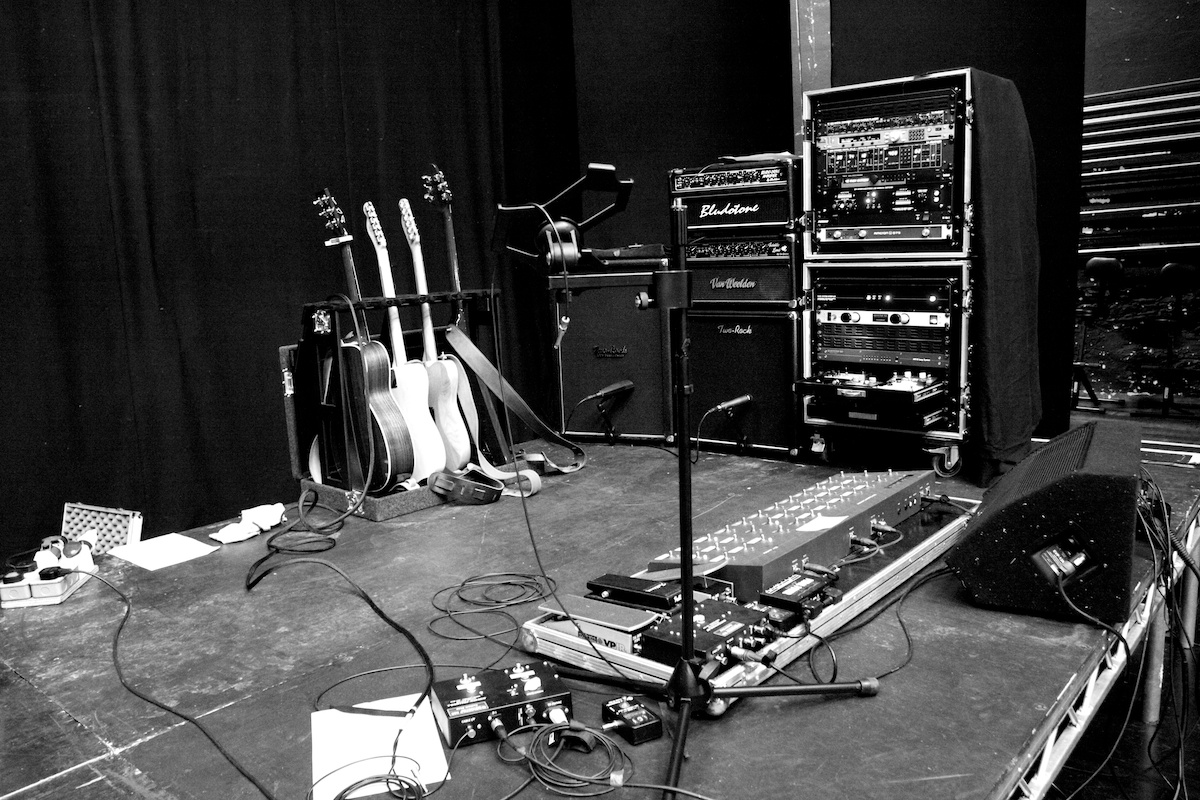
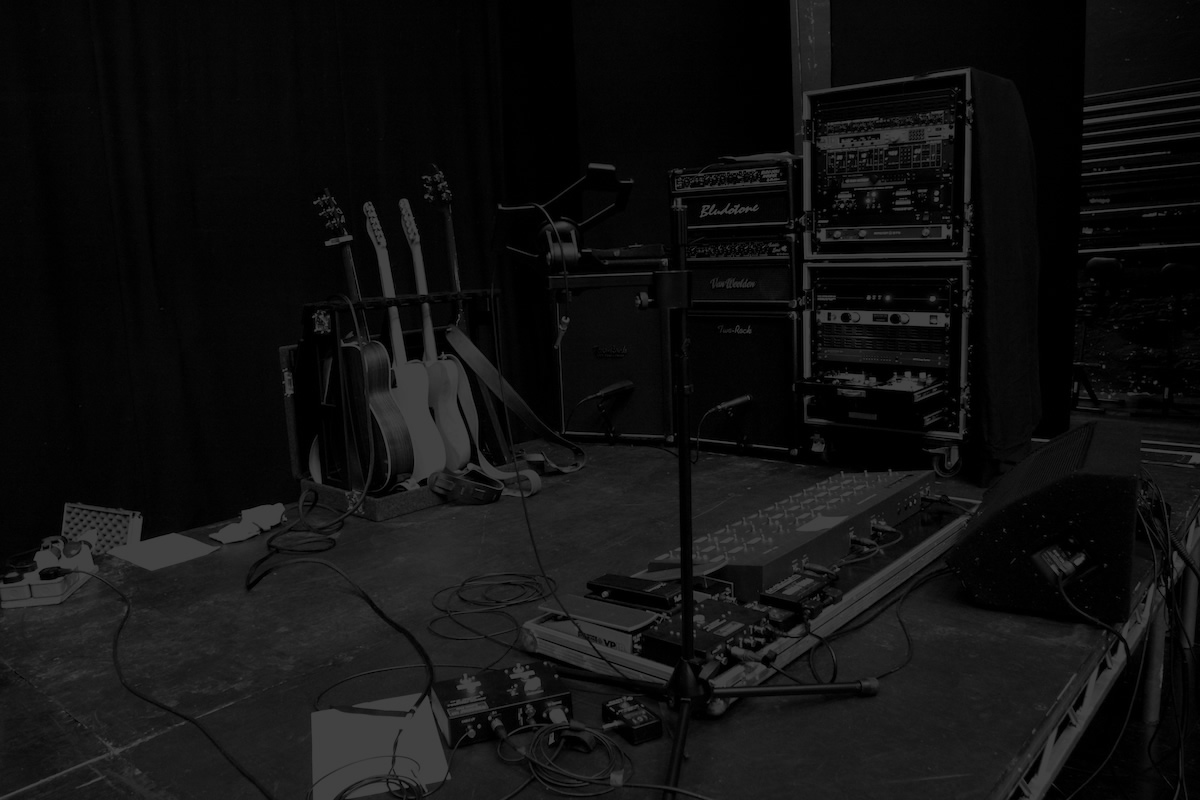
Fixed the 404 page, updated the about page and homepage images

diff --git a/craft/templates/404.html b/craft/templates/404.html
@@ -16,8 +16,20 @@
 {% extends "_layout" %}
 {% set title = "404" %}
 
-{% block content %}
-	<h1>Page not found</h1>
+{% block content_main %}
+    <header class="heading-group heading-group--main">
+        <div class="main-wrapper main-wrapper--full">
+            <h1>404 – Page not found</h1>
+            <h2>It looks like that page no longer exists.</h2>
+        </div>
+    </header>
 
-	<p>What’s worse, a hilarious 404 page can’t be found either.</p>
+
+        <div class="main-wrapper main-wrapper--article">
+
+            <p>Perhaps you were looking for a <a href="/blog">blog post</a>, or a specific <a href="/recordings">album</a> or release? Maybe it was a glorious review of some <a href="/equipment">equipment</a> or a photo from the <a href="/gallery">gallery</a>? </p>
+
+        </div><!-- //end.main-wrapper -->
+    </div>
+
 {% endblock %}

diff --git a/public/static/scss/quarks/_figures.scss b/public/static/scss/quarks/_figures.scss
@@ -29,6 +29,10 @@ figure {
     }
 }
 
+.fluid-width-video-wrapper {
+    @include rems(margin-bottom, $base-spacing-unit);
+}
+
     cite,
     .cite {
         display: inline-block;
@@ -61,6 +65,7 @@ figcaption {
         }
     }
 }
+
 
 // Images that come after a title (see: blog detail)
 .figure__hero {
@@ -129,6 +134,13 @@ figcaption {
 .figure--banner-about {
     @include respond-to("regular and above"){
         @include rems(max-height, 800);
+    }
+
+    @include breakpoint(1000px){
+        > img {
+            @include rems(margin-top, -100);
+            @include rems(margin-bottom, -140);
+        }
     }
 }
 

diff --git a/public/static/scss/molecules/_footer.scss b/public/static/scss/molecules/_footer.scss
@@ -1,6 +1,7 @@
-/*------------------------------------*\
-    $FOOTER
-\*------------------------------------*/
+// ==========================================================================
+// FOOTER
+// ========================================================================== 
+
 
 .footer-main {
     @extend .cf;
@@ -8,6 +9,7 @@
     color: $color__text--reverse;
     background-color: $color__background--black;
     border-top: 5px solid lighten($color__background--black, 10);
+    width: 100%;
 
     @include respond-to("largest only"){
         float: left;

diff --git a/public/static/scss/molecules/_banner--landing.scss b/public/static/scss/molecules/_banner--landing.scss
@@ -41,8 +41,6 @@
 
         @include respond-to("large and above") {
             @include rems(height, 520);
-            // -webkit-filter: brightness(30%);
-            // filter: brightness(30%);
             -webkit-transform: scale(1.02); // nasty hack to hide the white edges caused by css filters
             margin-bottom: 0;
         }

diff --git a/public/static/scss/quarks/_headings.scss b/public/static/scss/quarks/_headings.scss
@@ -10,7 +10,7 @@
 h1, .alpha {
     @extend %font__display--black;
     @include rems(font-size, $h1-size);
-    line-height: ($line-height-ratio - .25);
+    line-height: ($line-height-ratio - .5);
     text-rendering: optimizeLegibility;
 
     @include respond-to("medium and above"){

diff --git a/public/static/scss/molecules/_featured.scss b/public/static/scss/molecules/_featured.scss
@@ -39,6 +39,10 @@
             @include respond-to("gigantic"){
                 @include rems(font-size, 16);
             }
+
+            a {
+                white-space: nowrap;
+            }
         }
     }
 

diff --git a/public/static/scss/quarks/_main.scss b/public/static/scss/quarks/_main.scss
@@ -55,6 +55,7 @@ body {
     color: $base-color;
     line-height:$line-height-ratio;
     position: relative;
+    height: 100%;
 
     &.overlay--active {
         height: 100%;

diff --git a/public/static/scss/molecules/_wrappers.scss b/public/static/scss/molecules/_wrappers.scss
@@ -59,6 +59,7 @@
     overflow: hidden;
     background-size: 100%;
     background-color: $color__white;
+    min-height: 100%;
 
 
     @include respond-to("largest only"){

diff --git a/public/static/scss/atoms/_item-list.scss b/public/static/scss/atoms/_item-list.scss
@@ -128,6 +128,10 @@
 
         p {
             margin-bottom: 0;
+
+            >a {
+                white-space: nowrap;
+            }
         }
     }
 

diff --git a/craft/config/db.php b/craft/config/db.php
@@ -10,7 +10,7 @@
 return array(
 
 	// The database server name or IP address. Usually this is 'localhost' or '127.0.0.1'.
-	'server' => 'localhost',
+	'server' => '127.0.0.1',
 
 	// The database username to connect with.
 	'user' => 'root',
@@ -19,7 +19,7 @@ return array(
 	'password' => '',
 
 	// The name of the database to select.
-	'database' => 'simon_campbell',
+	'database' => 'sc_craft',
 
 	// The prefix to use when naming tables. This can be no more than 5 characters.
 	'tablePrefix' => 'craft',
